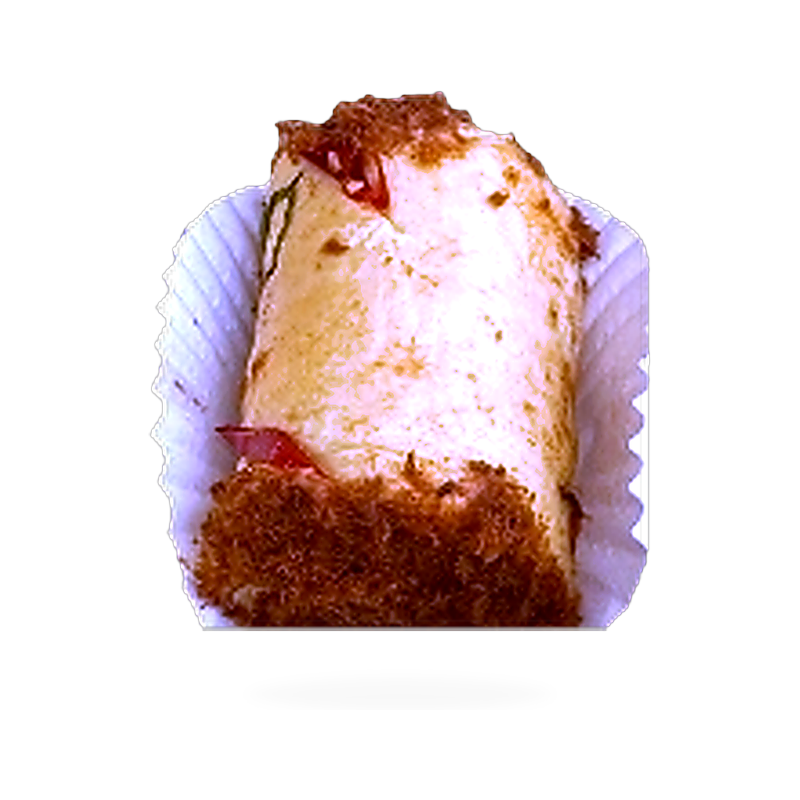
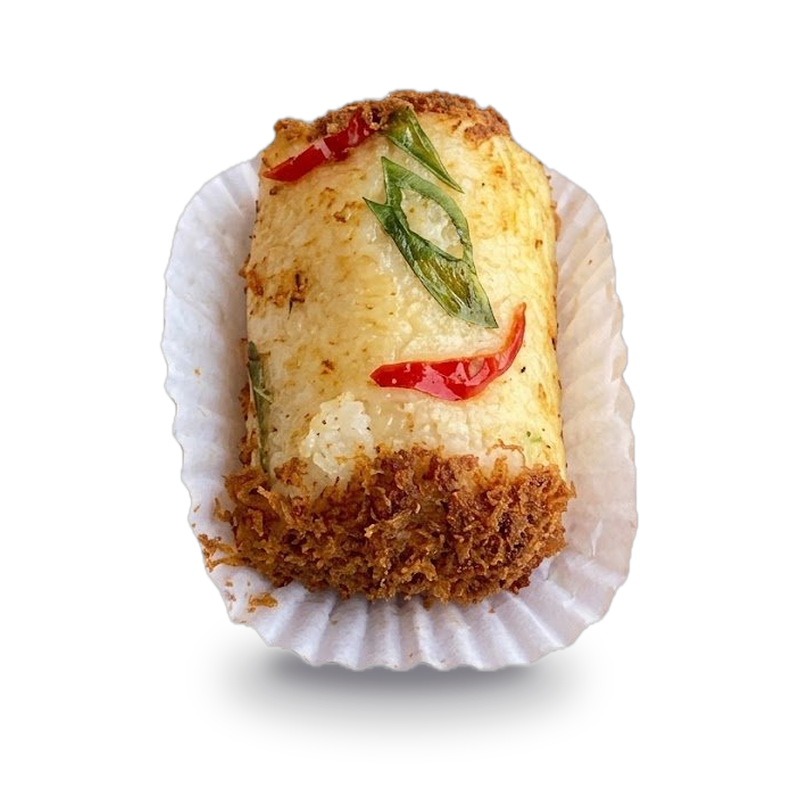
fix(product-image): update Floss Roll with clean transparent PNG cutout and natural shadow

diff --git a/app.js b/app.js
@@ -62,7 +62,7 @@ const PRODUCTS_DATA = [
     shortDesc: 'Roti gulung lembut bertabur abon gurih melimpah di kedua ujungnya, dipadu creamy mayo, irisan cabai, dan daun bawang.',
     fullDesc: 'Roti gulung lembut istimewa Bluezi bertabur limpahan abon gurih di kedua ujung sisinya. Dibuat dari adonan roti yang sangat empuk dan moist, dipadukan dengan olesan saus creamy mayo yang gurih legit, serta taburan irisan daun bawang dan cabai merah segar di bagian atas untuk aroma dan kelezatan yang kaya.',
     images: {
-      cutout: 'public/images/products/enhanced/floss-roll.png?v=photoreal_v5',
+      cutout: 'public/images/products/enhanced/floss-roll.png?v=clean_v8',
       real1: 'assets/editorial/floss_roll_tray.jpg'
     },
     photoShape: 'round',

diff --git a/order.js b/order.js
@@ -35,7 +35,7 @@ const BAKERY_PRODUCTS = [
     price: 7000,
     priceFormatted: 'Rp 7.000',
     shortDesc: 'Roti gulung empuk bertabur abon gurih melimpah di kedua ujungnya, dipadu creamy mayo, irisan cabai, dan daun bawang.',
-    image: 'public/images/products/enhanced/floss-roll.png?v=photoreal_v5'
+    image: 'public/images/products/enhanced/floss-roll.png?v=clean_v8'
   },
   {
     id: 'creamy-mushroom',
